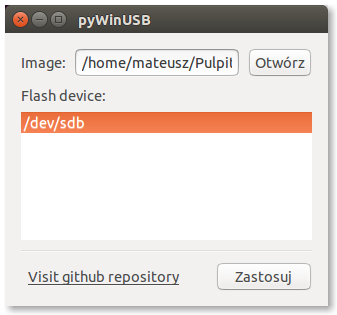
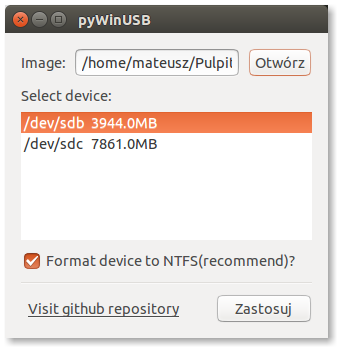
Add device formating checkbox and size column to device list

diff --git a/pywinusb/creator.py b/pywinusb/creator.py
@@ -3,6 +3,7 @@ from gi.repository import Gtk
 
 from pywinusb.decorators import chain_method, event_method
 from pywinusb.events import EventHandler
+from pywinusb.decorators import installer_method
 
 # Dialog potwierdzenia
 def MessageBox(parent, title, message, buttons=Gtk.ButtonsType.OK_CANCEL, type=Gtk.MessageType.WARNING):
@@ -20,6 +21,34 @@ class USBCreator:
         self.copy_thread = None
         self.event_handler = event_handler
 
+        self.format_filesystem = "ntfs"
+        self.format_table = "msdos"
+
+    @staticmethod
+    def get_filesystem_name(device, partition=1):
+        """
+        :param device:      Urządzenie
+        :param partition:   Numer partycji
+        :return: System plików na partycji
+        """
+        return re.search("\n\w*.(\w*)", str(sh.lsblk(device + str(partition), fs=True))).group(1)
+
+    @staticmethod
+    def get_device_size(device, whole_device=False):
+        """ Pobieranie rozmiarów urządzenia/partycji
+        :param already_formatted: Czy jest właśnie sformatowany
+        :return: Rozmiar w bajtach
+        """
+        try:
+            if not whole_device:
+                # Sprawdzanie systemu plików, jeśli nie jest to NTFS to wysypuje się
+                return int(re.search("\n\/dev\/(?:\w*\s*){3}(\d*)", str(sh.df(device + "1"))).group(1)) * 1024
+
+            # Pobieranie rozmiaru całego urządzenia
+            return int(sh.blockdev("--getsize64", device))
+        except:
+            return -1
+
     @staticmethod
     def list_devices():
         """ Listowanie wszystkich punktów montowania wszystkich pendrive
@@ -28,7 +57,8 @@ class USBCreator:
         mount_points = []
         popen = os.popen("grep -lir '1' /sys/block/sd*/removable")
         for block_device in iter(popen.readline, ""):
-            mount_points.append("/dev/{}".format(re.search("(\w*)\/removable$", block_device).group(1)))
+            device = "/dev/{}".format(re.search("(\w*)\/removable$", block_device).group(1))
+            mount_points.append([device, USBCreator.get_device_size(device, True)])
         return mount_points
 
     @staticmethod
@@ -41,11 +71,8 @@ class USBCreator:
             if match is not None:
                 return match.group(1)
 
-    @chain_method
-    @event_method("Opening device...")
+    @installer_method("Opening device...")
     def open_device(self):
-        self.device_size = int(sh.blockdev("--getsize64", self.device)) # Rozmiar w MB
-
         # Odmontowywanie urządzenia jeśli jest ono zamontowane
         mount_path = USBCreator.get_mount_path(self.device)
         if mount_path:
@@ -60,8 +87,7 @@ class USBCreator:
             else:
                 raise Exception("Device must be unmounted before copying!")
 
-    @chain_method
-    @event_method("Erasing device...")
+    @installer_method("Erasing device...")
     def erase_device(self):
         """ Wymazywanie całego urządzenia
         """
@@ -72,18 +98,19 @@ class USBCreator:
         # Formatowanie na NTFSa
         subprocess.call(["mkfs.ntfs", "-Q", self.device + "1"])
 
-    @chain_method
-    @event_method("Mounting devices...")
+    @installer_method("Mounting devices...")
     def mount_devices(self):
         """ Montowanie obrazu dysku
         :param image_path: Ścieżka bezwzględna do obrazu
         """
-        if os.path.getsize(self.image_path) > self.device_size:
-            raise Exception("Image is too big!")
-
         self.mount_folder = "/media/pyWinUSB/{}".format(hashlib.sha1(self.image_path.encode("utf-8")).hexdigest())
         self.source_mount = self.mount_folder  + "/source"
         self.destination_mount = self.mount_folder  + "/destination"
+
+        # Odmontowywanie na wszelki wypadek
+        try: sh.umount(self.source_mount)
+        except:
+            pass
 
         # Montownie obrazu ISO dysku
         sh.mkdir(self.source_mount, self.destination_mount, "-p")
@@ -93,8 +120,16 @@ class USBCreator:
         subprocess.call(["sfdisk", self.device, "-R"])
         subprocess.call(["mount", self.device + "1", self.destination_mount])
 
-    @chain_method
-    @event_method("Copying files...")
+        # Sprawdzanie systemu plików pod kątem rozmiaru
+        if USBCreator.get_device_size(self.device) < os.path.getsize(self.image_path):
+            raise Exception("No enough space on disk/partition!")
+
+        # Sprawdzenie typu systemu plików
+        # elif USBCreator.get_filesystem_name(self.device) != "ntfs":
+        #     raise Exception("Unsupported filesystem!")
+
+
+    @installer_method("Copying files...")
     def copy_files(self):
         # Pliki do skopiowania
         files_to_copy = []
@@ -115,8 +150,7 @@ class USBCreator:
             sh.mkdir(dest_file, "-p")
             sh.cp(file, dest_file)
 
-    @chain_method
-    @event_method("Installing GRUB...")
+    @installer_method("Installing GRUB...")
     def make_bootable(self):
         """ Tworzenie dysku bootowalnego
         """
@@ -144,8 +178,7 @@ class USBCreator:
                 }
             """)
 
-    @chain_method
-    @event_method("Umount devices...")
+    @installer_method("Umount devices...")
     def close_stream(self):
         """ Zamykanie urządzenia i kasowanie plików tymczasowych
         """
@@ -154,7 +187,7 @@ class USBCreator:
             sh.umount(self.source_mount, self.destination_mount)
             sh.rm(self.mount_folder, '-rf')
 
-    def create_boot_disc(self, device, image_path):
+    def create_boot_disc(self, device, image_path, format_device=False):
         """ Tworzenie dysku instalacyjnego na pendrive
         :param device:      Urządzenie np. /dev/sdb
         :param image_path:  Ścieżka do surowego obrazu
@@ -164,26 +197,33 @@ class USBCreator:
 
         # Instalacja w innym wątku by nie wieszać UI
         try:
-            self \
-                .open_device() \
-                .erase_device() \
-                .mount_devices()
-        except:
-            self\
-                .close_stream()\
-                .event_handler.on_done(True)
+            err_title = None
+            self.open_device()
+            if format_device:
+                self.erase_device()
+            self.mount_devices()
 
-        finally:
+            # Wątek kopiowania
             def worker():
                 self \
                     .copy_files() \
                     .make_bootable() \
                     .close_stream() \
                     .event_handler.on_done()
-
-            # Wątek kopiowania
             self.copy_thread = threading.Thread(target=worker, daemon=True)
             self.copy_thread.start()
+
+        # Po złapaniu błędu wyświetlany jest warning i odmontowywane urządzenia
+        except Exception as err:
+            err_title = err.args[0]
+        except:
+            print(os.sys.exc_info())
+            err_title = os.sys.exc_info()[0]
+        finally:
+            if err_title is not None:
+                self\
+                    .close_stream()\
+                    .event_handler.on_done(err_title)
 
     def stop_copying(self):
         """ Zatrzymywania kopiowania plików np. po zamknięciu dialogu

diff --git a/pywinusb/window.py b/pywinusb/window.py
@@ -1,6 +1,6 @@
 import threading, time
-
 from gi.repository import Gtk, GObject, Gdk
+
 from pywinusb.creator import USBCreator
 from pywinusb.progress import ProgressWindow
 
@@ -12,8 +12,8 @@ class AppWindow(USBCreator, Gtk.Window):
 
         self.set_border_width(10)
         self.set_size_request(150, -1)
-        self.__create_wizard()
         self.connect("delete-event", Gtk.main_quit)
+        self.__create_wizard()
 
     def __create_wizard(self):
         """ Tworzenie kontrolek w oknie aplikacji
@@ -42,14 +42,26 @@ class AppWindow(USBCreator, Gtk.Window):
         # Dostępne urządzenia
         row = Gtk.ListBoxRow()
         box = Gtk.VBox(spacing=8)
-        box.pack_start(Gtk.Label("Flash device:", xalign=0), True, False, 0)
+        box.pack_start(Gtk.Label("Select device:", xalign=0), True, False, 0)
 
         # Listowanie urządzeń co pół sekundy
-        self.devices = Gtk.TreeView(Gtk.ListStore(str))
+        self.devices = Gtk.TreeView(Gtk.ListStore(str, str))
         self.devices.set_size_request(-1, 128)
-        self.devices.append_column(Gtk.TreeViewColumn('', Gtk.CellRendererText(), text=0))
+        self.devices.append_column(Gtk.TreeViewColumn("", Gtk.CellRendererText(), text=0))
+        self.devices.append_column(Gtk.TreeViewColumn("", Gtk.CellRendererText(), text=1))
         self.devices.set_headers_visible(False)
         box.pack_start(self.devices, True, False, 0)
+
+        row.add(box)
+        listbox.add(row)
+
+        # Checkbox formatowania
+        row = Gtk.ListBoxRow()
+        box = Gtk.VBox(spacing=8)
+
+        self.erase_checkbox = Gtk.CheckButton(label="Format device to NTFS(recommend)?")
+        self.erase_checkbox.set_active(True)
+        box.pack_start(self.erase_checkbox, True, True, 0)
 
         row.add(box)
         listbox.add(row)
@@ -92,6 +104,7 @@ class AppWindow(USBCreator, Gtk.Window):
         self.create_boot_disc(
               device=model[iter][0]
             , image_path=path
+            , format_device=self.erase_checkbox.get_active()
         )
 
     def __show_file_chooser(self, button):
@@ -137,8 +150,8 @@ class AppWindow(USBCreator, Gtk.Window):
                     devices.clear()
 
                     # Dodawanie urządzeń do listy
-                    for mount_point in new_devices:
-                        devices.append([ mount_point ])
+                    for (mount_point, size) in new_devices:
+                        devices.append([mount_point, str(size/1048576)+"MB"])
                 time.sleep(1)
 
         # Włączanie wątku odpowiedzialnego za odświeżanie urządzeń

diff --git a/pywinusb/progress.py b/pywinusb/progress.py
@@ -64,9 +64,9 @@ class ProgressWindow(Gtk.Window, EventHandler):
                         , re.search("pyWinUSB\/\w{40}\/source\/(.*)", file).group(1)
                         , current / total
                         )
-    def on_done(self, err=False):
-        if err:
-            GObject.idle_add(self.show_warning, "Error!", "Check logs!", Gtk.MessageType.WARNING)
+    def on_done(self, err=None):
+        if err is not None:
+            GObject.idle_add(self.show_warning, "Error!", err, Gtk.MessageType.WARNING)
         else:
             GObject.idle_add(self.show_warning, "Copying done!", "You can eject device!")
         self.destroy()

diff --git a/pywinusb/decorators.py b/pywinusb/decorators.py
@@ -14,3 +14,9 @@ def event_method(status):
             return self
         return func_wrapper
     return dec
+
+# Metoda instalacyjna
+def installer_method(status):
+    def dec(func):
+        return chain_method(event_method(status)(func))
+    return dec

diff --git a/pywinusb/__main__.py b/pywinusb/__main__.py
@@ -10,7 +10,7 @@ def check_root_access():
 
 def main():
     if not check_root_access():
-        sys.exit("\nOnly root can run this script\n")
+        sys.exit("\nOnly root can run this script :(\n")
 
     win = AppWindow()
     win.show_all()
